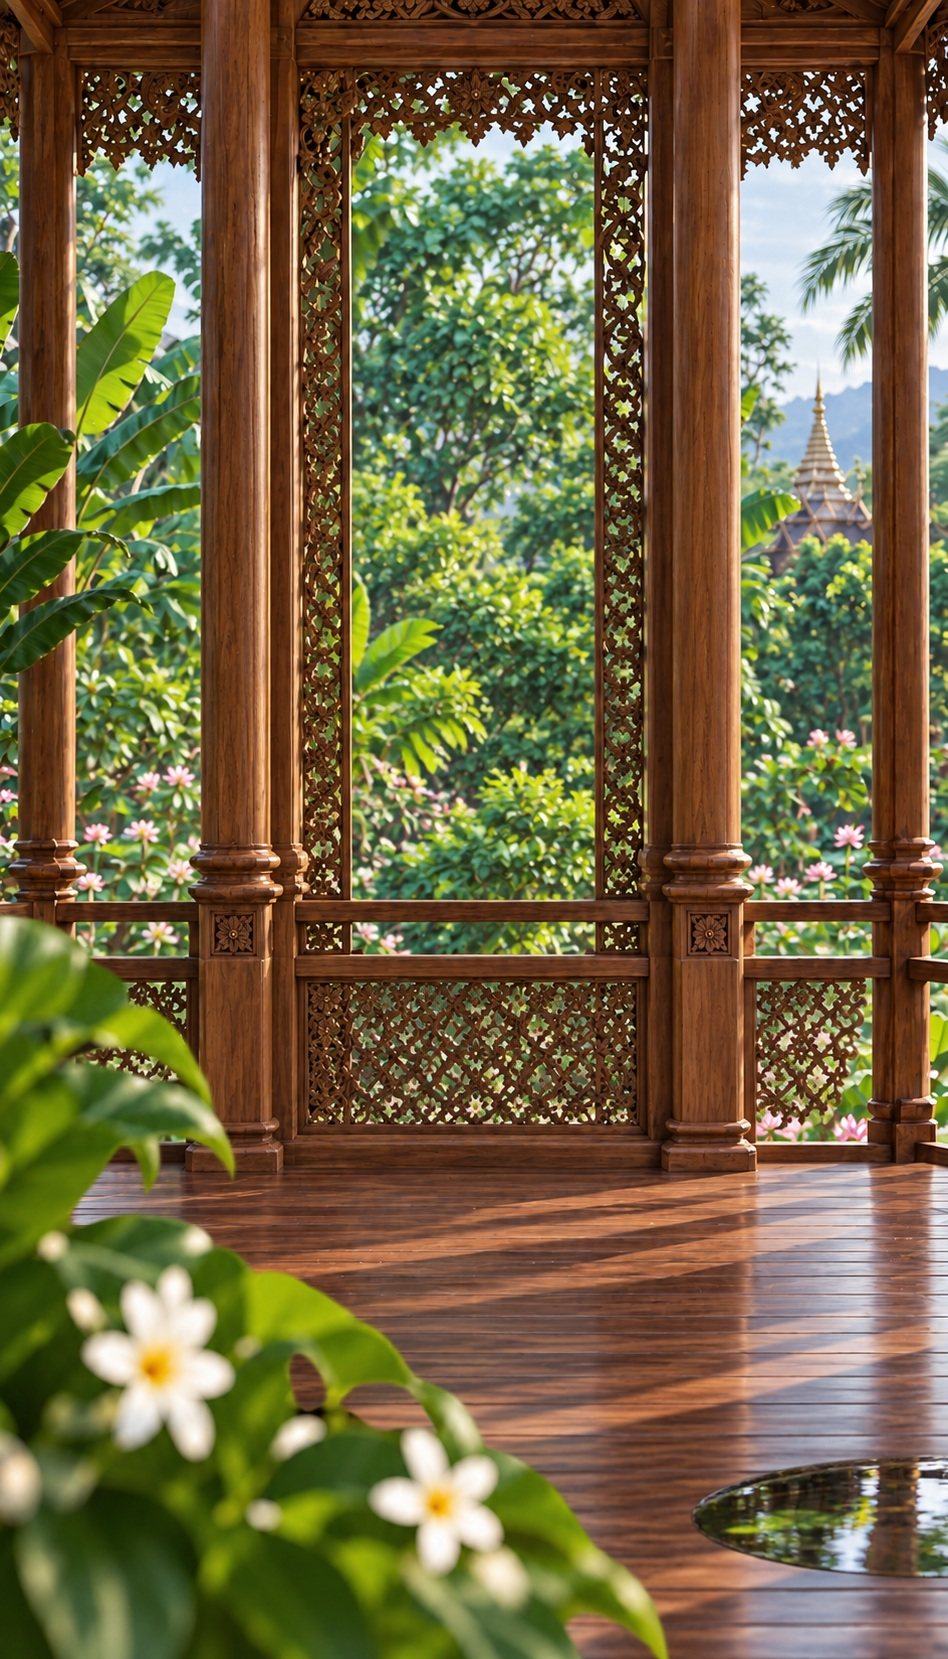
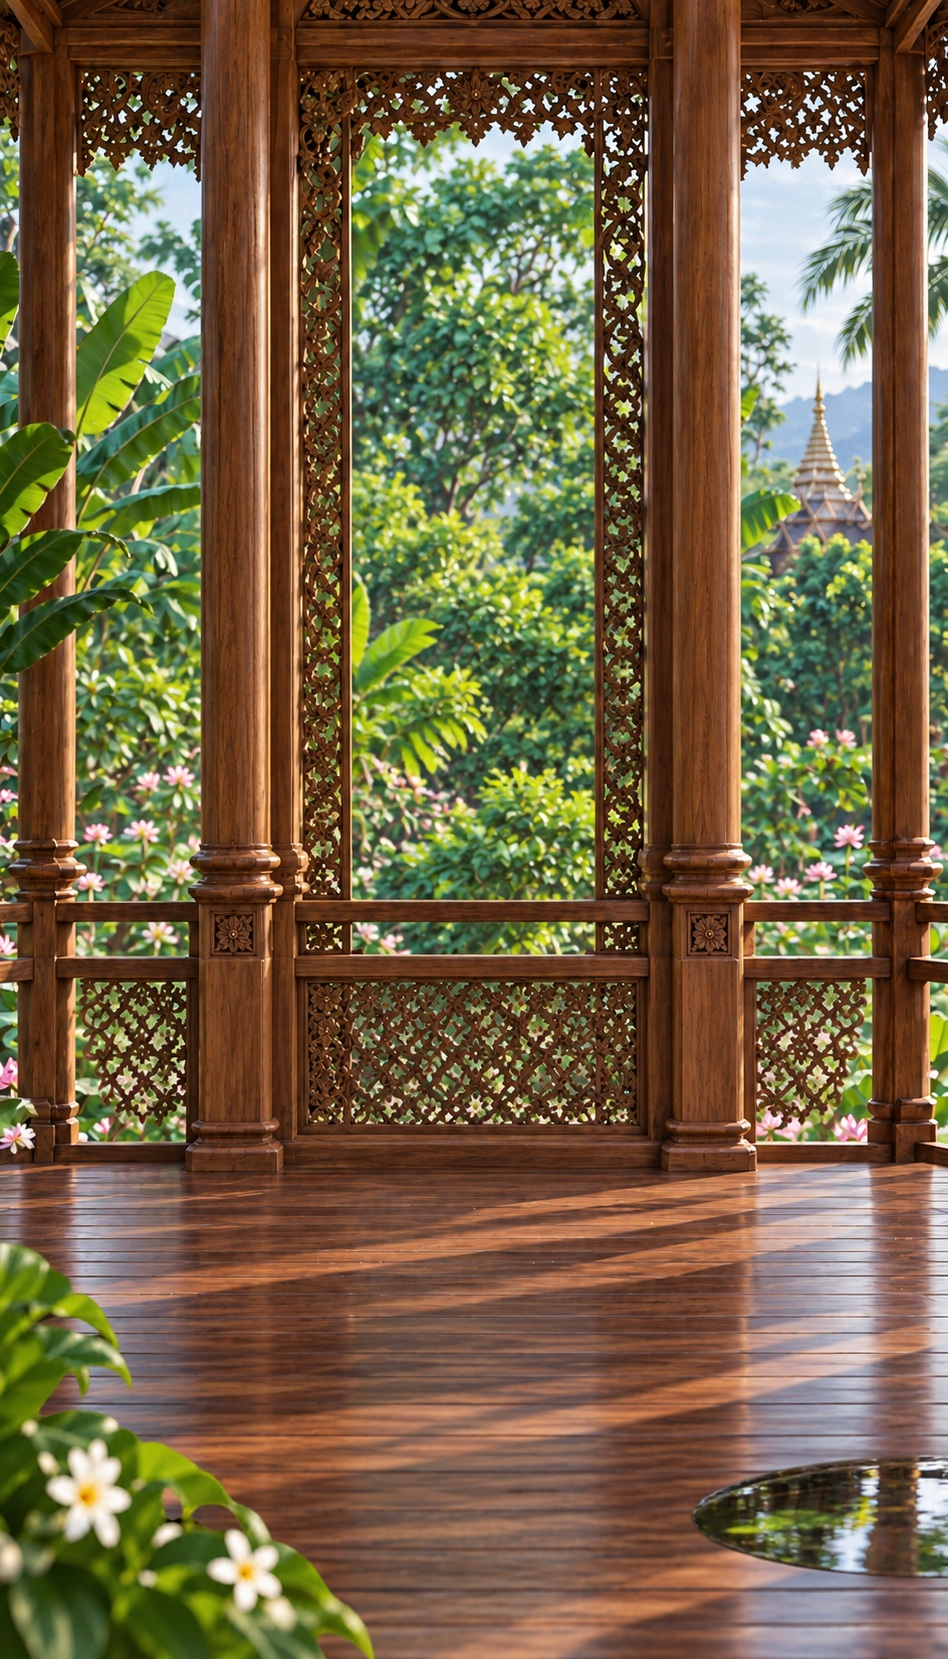
fix: align T05 foreground cutout with original scene placement

Changed region(s): [[0.0, 0.5533, 0.7036, 1.0]]

diff --git a/themes/T05/index.html b/themes/T05/index.html
@@ -5,5 +5,5 @@
     .assets{display:grid;grid-template-columns:repeat(5,1fr);gap:7px;align-content:start}article{border:1px solid #aab6c4;background:white;height:198px;padding:5px;overflow:hidden}
     header{font-size:13px;font-weight:600;height:34px;line-height:16px}article a{display:block;height:151px;background:repeating-conic-gradient(#e1e4e8 0% 25%,#fafafa 0% 50%) 50% / 16px 16px}article img{width:100%;height:100%;object-fit:contain;padding:5px}
     </style><h1>T05 兰纳柚木佛堂 · 原图 / 空背景 / 30 个透明拆件</h1>
-    <div class="note">当前文件指纹 a1679535a5bbbeff；点击素材可看原文件。缩略图仅按可见透明边界排版，原始 PNG 未改动。</div>
+    <div class="note">当前文件指纹 be4b5fd95a5dcf60；点击素材可看原文件。缩略图仅按可见透明边界排版，原始 PNG 未改动。</div>
     <div class="layout"><section class="scene"><b>原主题：逐项对照位置与形状</b><img src="source.png"></section><section class="scene"><b>空背景：保留固定结构，移除可移动物件</b><img src="background.png"></section><section class="assets"><article><header>T05-01 供桌或主题主台</header><a href="objects/T05-01.png"><img src="thumbs/T05-01.png"></a></article><article><header>T05-02 坐佛</header><a href="objects/T05-02.png"><img src="thumbs/T05-02.png"></a></article><article><header>T05-04 空花瓶</header><a href="objects/T05-04.png"><img src="thumbs/T05-04.png"></a></article><article><header>T05-05 花枝花束</header><a href="objects/T05-05.png"><img src="thumbs/T05-05.png"></a></article><article><header>T05-06 空烛台或灯盏</header><a href="objects/T05-06.png"><img src="thumbs/T05-06.png"></a></article><article><header>T05-07 未点燃蜡芯 · 补绘功能件</header><a href="objects/T05-07.png"><img src="thumbs/T05-07.png"></a></article><article><header>T05-08 空香炉</header><a href="objects/T05-08.png"><img src="thumbs/T05-08.png"></a></article><article><header>T05-09 未点燃线香</header><a href="objects/T05-09.png"><img src="thumbs/T05-09.png"></a></article><article><header>T05-10 空供盘</header><a href="objects/T05-10.png"><img src="thumbs/T05-10.png"></a></article><article><header>T05-11 橙子</header><a href="objects/T05-11.png"><img src="thumbs/T05-11.png"></a></article><article><header>T05-12 茶壶</header><a href="objects/T05-12.png"><img src="thumbs/T05-12.png"></a></article><article><header>T05-13 空茶杯</header><a href="objects/T05-13.png"><img src="thumbs/T05-13.png"></a></article><article><header>T05-14 茶托</header><a href="objects/T05-14.png"><img src="thumbs/T05-14.png"></a></article><article><header>T05-16 坐垫</header><a href="objects/T05-16.png"><img src="thumbs/T05-16.png"></a></article><article><header>T05-17 雕木金饰背屏</header><a href="objects/T05-17.png"><img src="thumbs/T05-17.png"></a></article><article><header>T05-18 悬挂古铜空灯笼</header><a href="objects/T05-18.png"><img src="thumbs/T05-18.png"></a></article><article><header>T05-19 右侧莲花空瓶</header><a href="objects/T05-19.png"><img src="thumbs/T05-19.png"></a></article><article><header>T05-20 粉莲绿叶花束</header><a href="objects/T05-20.png"><img src="thumbs/T05-20.png"></a></article><article><header>T05-21 白花空供钵</header><a href="objects/T05-21.png"><img src="thumbs/T05-21.png"></a></article><article><header>T05-22 小簇白色供花</header><a href="objects/T05-22.png"><img src="thumbs/T05-22.png"></a></article><article><header>T05-23 绿色柑橘果</header><a href="objects/T05-23.png"><img src="thumbs/T05-23.png"></a></article><article><header>T05-24 单朵白色供花</header><a href="objects/T05-24.png"><img src="thumbs/T05-24.png"></a></article><article><header>T05-25 绿金流苏桌旗</header><a href="objects/T05-25.png"><img src="thumbs/T05-25.png"></a></article><article><header>T05-26 金铜独立杯碟</header><a href="objects/T05-26.png"><img src="thumbs/T05-26.png"></a></article><article><header>T05-27 前景空水钵</header><a href="objects/T05-27.png"><img src="thumbs/T05-27.png"></a></article><article><header>T05-28 漂浮粉莲花</header><a href="objects/T05-28.png"><img src="thumbs/T05-28.png"></a></article><article><header>T05-29 独立荷叶</header><a href="objects/T05-29.png"><img src="thumbs/T05-29.png"></a></article><article><header>T05-30 天然编织地席</header><a href="objects/T05-30.png"><img src="thumbs/T05-30.png"></a></article><article><header>T05-31 右前水钵静水表面图层 · 原位图层</header><a href="objects/T05-31.png"><img src="thumbs/T05-31.png"></a></article><article><header>T05-32 左下近景白花绿叶图层 · 原位图层</header><a href="objects/T05-32.png"><img src="thumbs/T05-32.png"></a></article></section></div></html>
